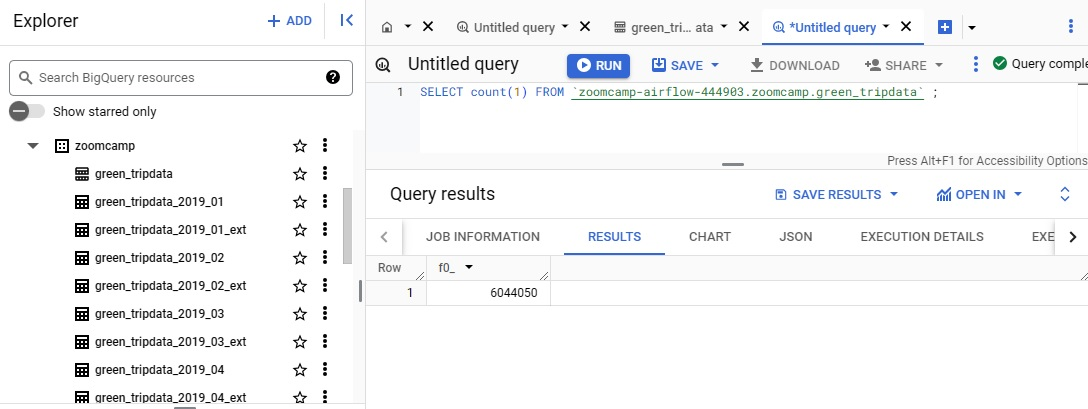
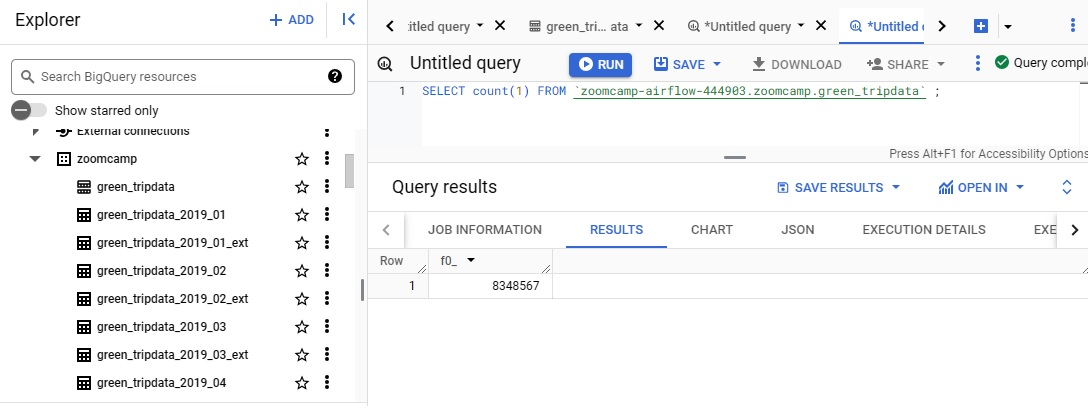
module 2: update GCP with backfill

diff --git a/2_Workflow-Orchestration-(Kestra)/README.md b/2_Workflow-Orchestration-(Kestra)/README.md
@@ -1308,12 +1308,12 @@ We can now schedule the same pipeline shown above to run at 9:00 AM on the first
 
 Access the Kestra UI --> Select triggers --> Backfill executions
 
-Lets load all 2019 data from Green Taxi:
+Lets load all data from Green Taxi:
 
-Start date: 2018-12-31 00:00:00
-End date: 2019-12-31 00:00:00
+- Start date: 2018-12-31 00:00:00
+- End date: 2021-07-31 00:00:00
 
-If everything was executed correctly, you should have all the 2019 data for Green Taxi loaded in BigQuery in the green_tripdata table
+If everything was executed correctly, you should have all the 2019-2020-2021 data for Green Taxi loaded in BigQuery in the green_tripdata table
 
 Head over to GCP, green_tripdata table should looks like this:
 <br><br>
